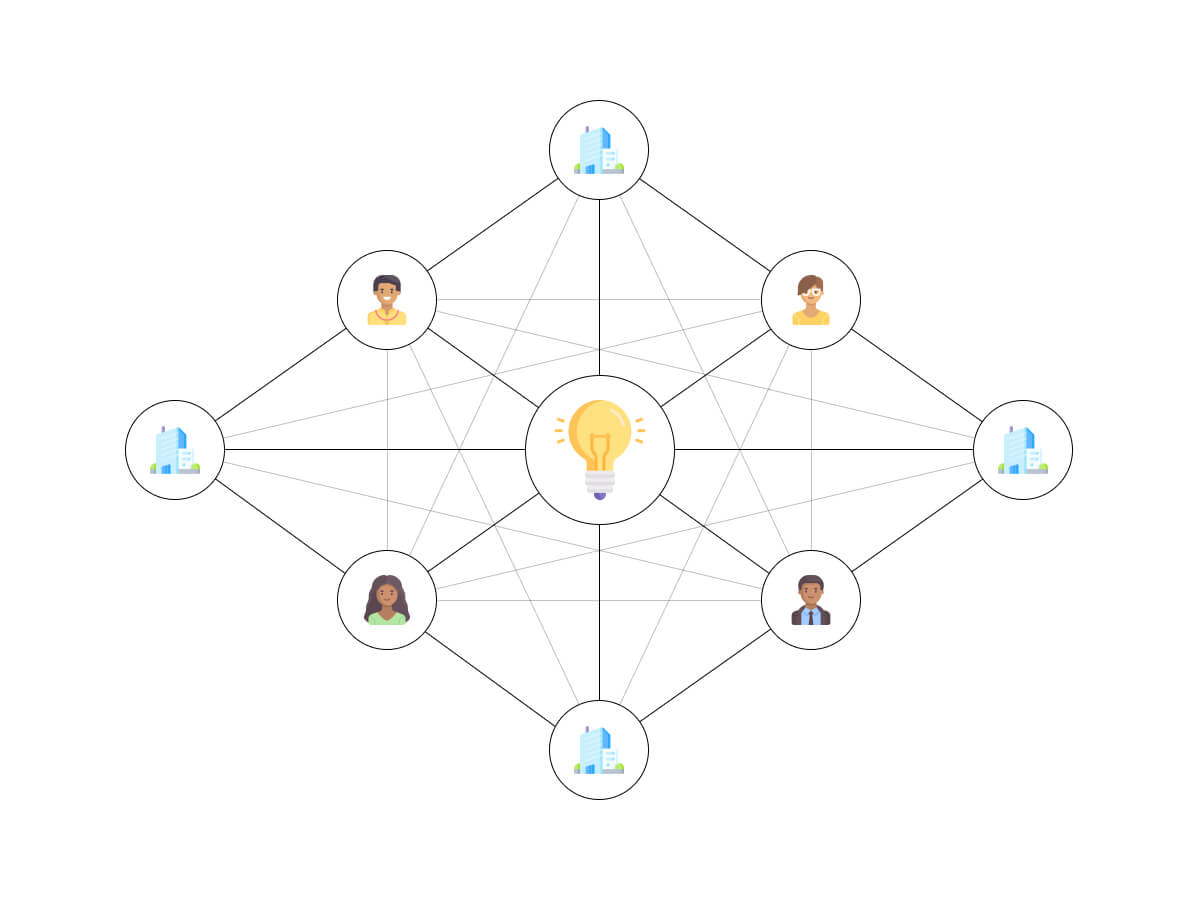
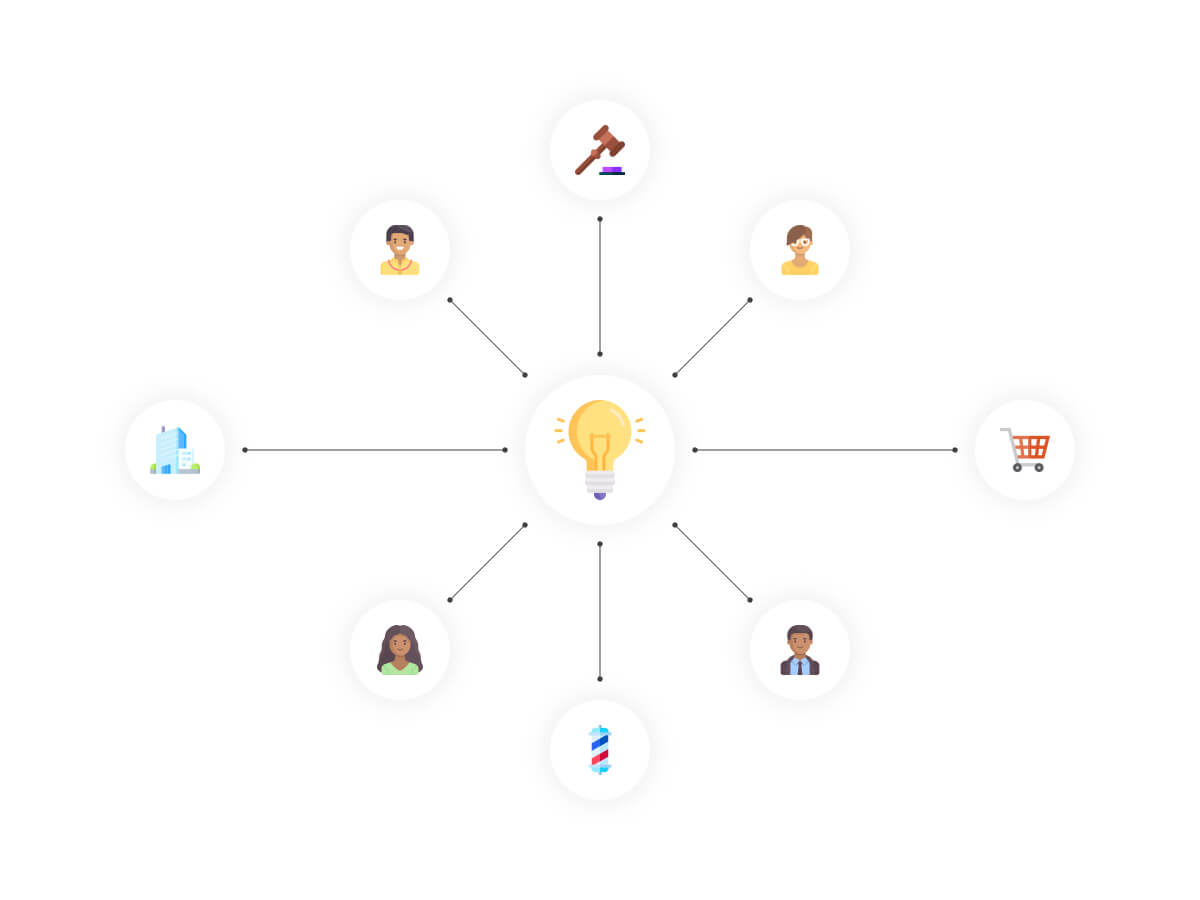
versão 3.1.13 Ajustes nas imagens da página inicial e correção de links nos artigos.

diff --git a/src/posts/portfolio/gerador-de-link-para-whatsapp.md b/src/posts/portfolio/gerador-de-link-para-whatsapp.md
@@ -116,7 +116,7 @@ Todos código do projeto está disponível publicamente no meu [repositório do 
 O [gerador de link do WhatsApp](https://apps.andremourasantos.com/link-de-whatsapp/) foi só o começo.
 
 A partir dessa ideia de criar soluções simples para os problemas do meu dia a dia como profissional de marketing, continuei desenvolvendo várias outras ferramentas, como:
-* Um [Calendário de Datas Comemorativas](/portfolio/calendario-de-datas-comemorativas) para uso em projetos de Inbound Marketing;
+* Um [Calendário de Datas Comemorativas](/portfolio/calendario-para-inbound-marketing) para uso em projetos de Inbound Marketing;
 * Um [Criador de UTMs](/portfolio/traqueamento-de-leads-a-partir-de-utms) para auxiliar na parametrização e rastreamento dos usuários, e;
 * O [Projeto Kai](/portfolio/assistente-de-ia-para-marketing-digital-projeto-kai), um assistente de IA especializado para atividades do Marketing. 
 

diff --git a/src/posts/portfolio/traqueamento-de-leads-a-partir-de-utms.md b/src/posts/portfolio/traqueamento-de-leads-a-partir-de-utms.md
@@ -187,4 +187,4 @@ Eu recomendo você a começar pequeno: padronize seus links das redes sociais pr
 
 E para te dar um empurrãozinho nesse caminho, a planilha está aí para simplificar a sua jornada!
 
-> Se você achou interessante o meu trabalho, recomendo conferir esse [calendário de datas comemorativas](/portfolio/calendario-de-datas-comemorativas) — que é excelente para iniciantes no Inbound Marketing.
+> Se você achou interessante o meu trabalho, recomendo conferir esse [calendário de datas comemorativas](/portfolio/calendario-para-inbound-marketing) — que é excelente para iniciantes no Inbound Marketing.

diff --git a/README.md b/README.md
@@ -8,7 +8,7 @@ Para os curiosos de plantão, alguns artigos em produção podem estar disponív
 
 ## Tecnologias usadas
 
-_*Atualizado em fevereiro de 2024._
+_*Atualizado em junho de 2025._
 
 <div align="center">
   <img height="48" title="HTML5" src="readme/html5.png">
